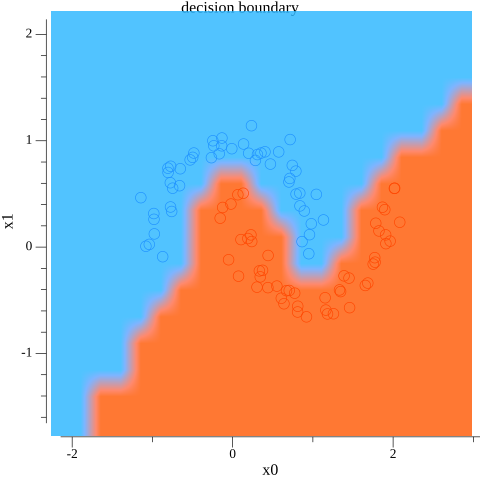
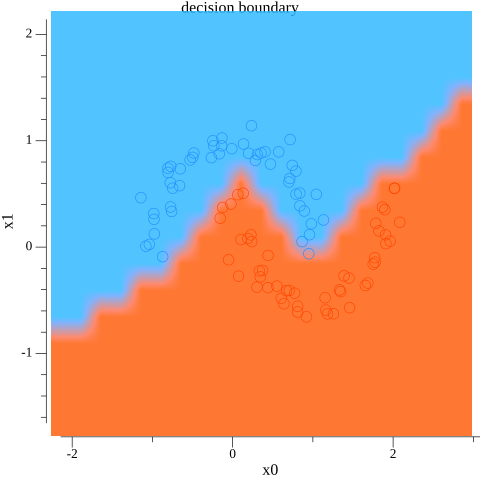
Enhance neural network architecture and initialization methods
- Introduced new Layer and ParamsFactory structs to improve the modularity of the neural network implementation.
- Updated the MLP constructor to accept Layer instances directly, ensuring input-output compatibility between layers.
- Added various weight initialization methods (HeInit, XavierInit, RandomInit) to optimize training for different activation functions.
- Refactored MNIST and Moons examples to utilize the new Layer structure and initialization methods, enhancing model flexibility and performance.

Changed region(s): [[0.0938, 0.3125, 0.5, 0.9062], [0.5938, 0.4375, 0.75, 0.625], [0.7812, 0.2812, 0.875, 0.375]]

diff --git a/nn/init.go b/nn/init.go
@@ -1,0 +1,34 @@
+package nn
+
+import (
+	"math"
+	"math/rand"
+)
+
+// HeInit is uniform He/Kaiming init for ReLU layers:
+// w ~ U(-sqrt(2/fanIn), +sqrt(2/fanIn)), b = 0.
+var HeInit = ParamsFactory{
+	BiasGenerator: func() float64 { return 0 },
+	WeightGenerator: func(fanIn int) float64 {
+		bound := math.Sqrt(2.0 / float64(fanIn))
+		return (rand.Float64()*2 - 1) * bound
+	},
+}
+
+// XavierInit is uniform Glorot init for linear layers:
+// w ~ U(-sqrt(1/fanIn), +sqrt(1/fanIn)), b = 0.
+var XavierInit = ParamsFactory{
+	BiasGenerator: func() float64 { return 0 },
+	WeightGenerator: func(fanIn int) float64 {
+		bound := math.Sqrt(1.0 / float64(fanIn))
+		return (rand.Float64()*2 - 1) * bound
+	},
+}
+
+// RandomInit draws weights and bias uniformly from [-1, 1], ignoring fanIn.
+var RandomInit = ParamsFactory{
+	BiasGenerator: func() float64 { return rand.Float64()*2 - 1 },
+	WeightGenerator: func(fanIn int) float64 {
+		return rand.Float64()*2 - 1
+	},
+}

diff --git a/examples/mnist/main.go b/examples/mnist/main.go
@@ -5,24 +5,31 @@ import (
 	"os"
 	"path/filepath"
 
+	"github.com/estevamfurtado/micrograd-go/engine"
 	"github.com/estevamfurtado/micrograd-go/nn"
 )
 
 // Config holds all training settings. Edit these values directly.
 type Config struct {
-	Limit     int     // max training rows (0 = full 60k)
-	TestLimit int     // max test rows for eval (0 = full 10k)
-	Epochs    int     // training epochs
-	BatchSize int     // batch size
-	LR        float64 // initial learning rate (decays per epoch)
+	HiddenSize int     // hidden layer size
+	Limit      int     // max training rows (0 = full 60k)
+	TestLimit  int     // max test rows for eval (0 = full 10k)
+	Epochs     int     // training epochs
+	BatchSize  int     // batch size
+	LR         float64 // initial learning rate (decays per epoch)
 }
 
 var config = Config{
-	Limit:     60_000,
-	TestLimit: 10_000,
-	Epochs:    10,
-	BatchSize: 32,
-	LR:        0.02,
+	HiddenSize: 16,
+	Limit:      60_000,
+	TestLimit:  10_000,
+	Epochs:     10,
+	BatchSize:  32,
+	LR:         0.02,
+}
+
+func linear(x *engine.Value) *engine.Value {
+	return x
 }
 
 func main() {
@@ -47,7 +54,10 @@ func main() {
 
 	fmt.Printf("train: %d samples, test: %d samples\n", len(train), len(test))
 
-	model := nn.NewMLP(numPixels, []int{16, numClasses})
+	hidden := nn.NewLayer(numPixels, config.HiddenSize, nn.HeInit, engine.ReLU)
+	out := nn.NewLayer(config.HiddenSize, numClasses, nn.XavierInit, linear)
+
+	model := nn.NewMLP(hidden, out)
 	fmt.Printf("model: %d parameters\n", len(model.Parameters()))
 
 	loss := &CrossEntropyCalculator{}

diff --git a/nn/neuron.go b/nn/neuron.go
@@ -1,18 +1,8 @@
 package nn
 
 import (
-	"math/rand"
-
 	"github.com/estevamfurtado/micrograd-go/engine"
 )
-
-func randomWeight() float64 {
-	return rand.Float64()*2 - 1
-}
-
-func linear(x *engine.Value) *engine.Value {
-	return x
-}
 
 type Neuron struct {
 	weights    []*engine.Value
@@ -20,16 +10,16 @@ type Neuron struct {
 	activation func(x *engine.Value) *engine.Value
 }
 
-func NewNeuron(in int, nonlin bool) *Neuron {
-	activation := engine.ReLU
-	if !nonlin {
-		activation = linear
-	}
+type ParamsFactory struct {
+	BiasGenerator   func() float64
+	WeightGenerator func(fanIn int) float64
+}
 
-	bias := engine.Const(randomWeight())
+func NewNeuron(in int, factory ParamsFactory, activation func(x *engine.Value) *engine.Value) *Neuron {
+	bias := engine.Const(factory.BiasGenerator())
 	weights := make([]*engine.Value, in)
 	for i := 0; i < in; i++ {
-		weights[i] = engine.Const(randomWeight())
+		weights[i] = engine.Const(factory.WeightGenerator(in))
 	}
 	return &Neuron{
 		weights:    weights,

diff --git a/nn/mlp.go b/nn/mlp.go
@@ -6,13 +6,11 @@ type MLP struct {
 	layers []*Layer
 }
 
-func NewMLP(in int, sizes []int) *MLP {
-	layers := make([]*Layer, len(sizes))
-	prev := in
-	for i, out := range sizes {
-		nonlin := i != len(sizes)-1
-		layers[i] = NewLayer(prev, out, nonlin)
-		prev = out
+func NewMLP(layers ...*Layer) *MLP {
+	for i := 0; i < len(layers)-1; i++ {
+		if layers[i].out != layers[i+1].in {
+			panic("number of inputs does not match number of outputs")
+		}
 	}
 
 	return &MLP{layers: layers}

diff --git a/examples/moons/main.go b/examples/moons/main.go
@@ -3,14 +3,23 @@ package main
 import (
 	"fmt"
 
+	"github.com/estevamfurtado/micrograd-go/engine"
 	"github.com/estevamfurtado/micrograd-go/nn"
 )
+
+func linear(x *engine.Value) *engine.Value {
+	return x
+}
 
 func main() {
 	data := loadMoons()
 	fmt.Printf("loaded %d samples\n", len(data))
 
-	model := nn.NewMLP(2, []int{16, 16, 1}) // 2-layer neural network
+	in := nn.NewLayer(2, 16, nn.RandomInit, engine.ReLU)
+	h1 := nn.NewLayer(16, 16, nn.RandomInit, engine.ReLU)
+	out := nn.NewLayer(16, 1, nn.RandomInit, linear)
+
+	model := nn.NewMLP(in, h1, out) // 2-layer neural network
 	fmt.Printf("model has %d parameters\n", len(model.Parameters()))
 
 	// i only have 100 samples